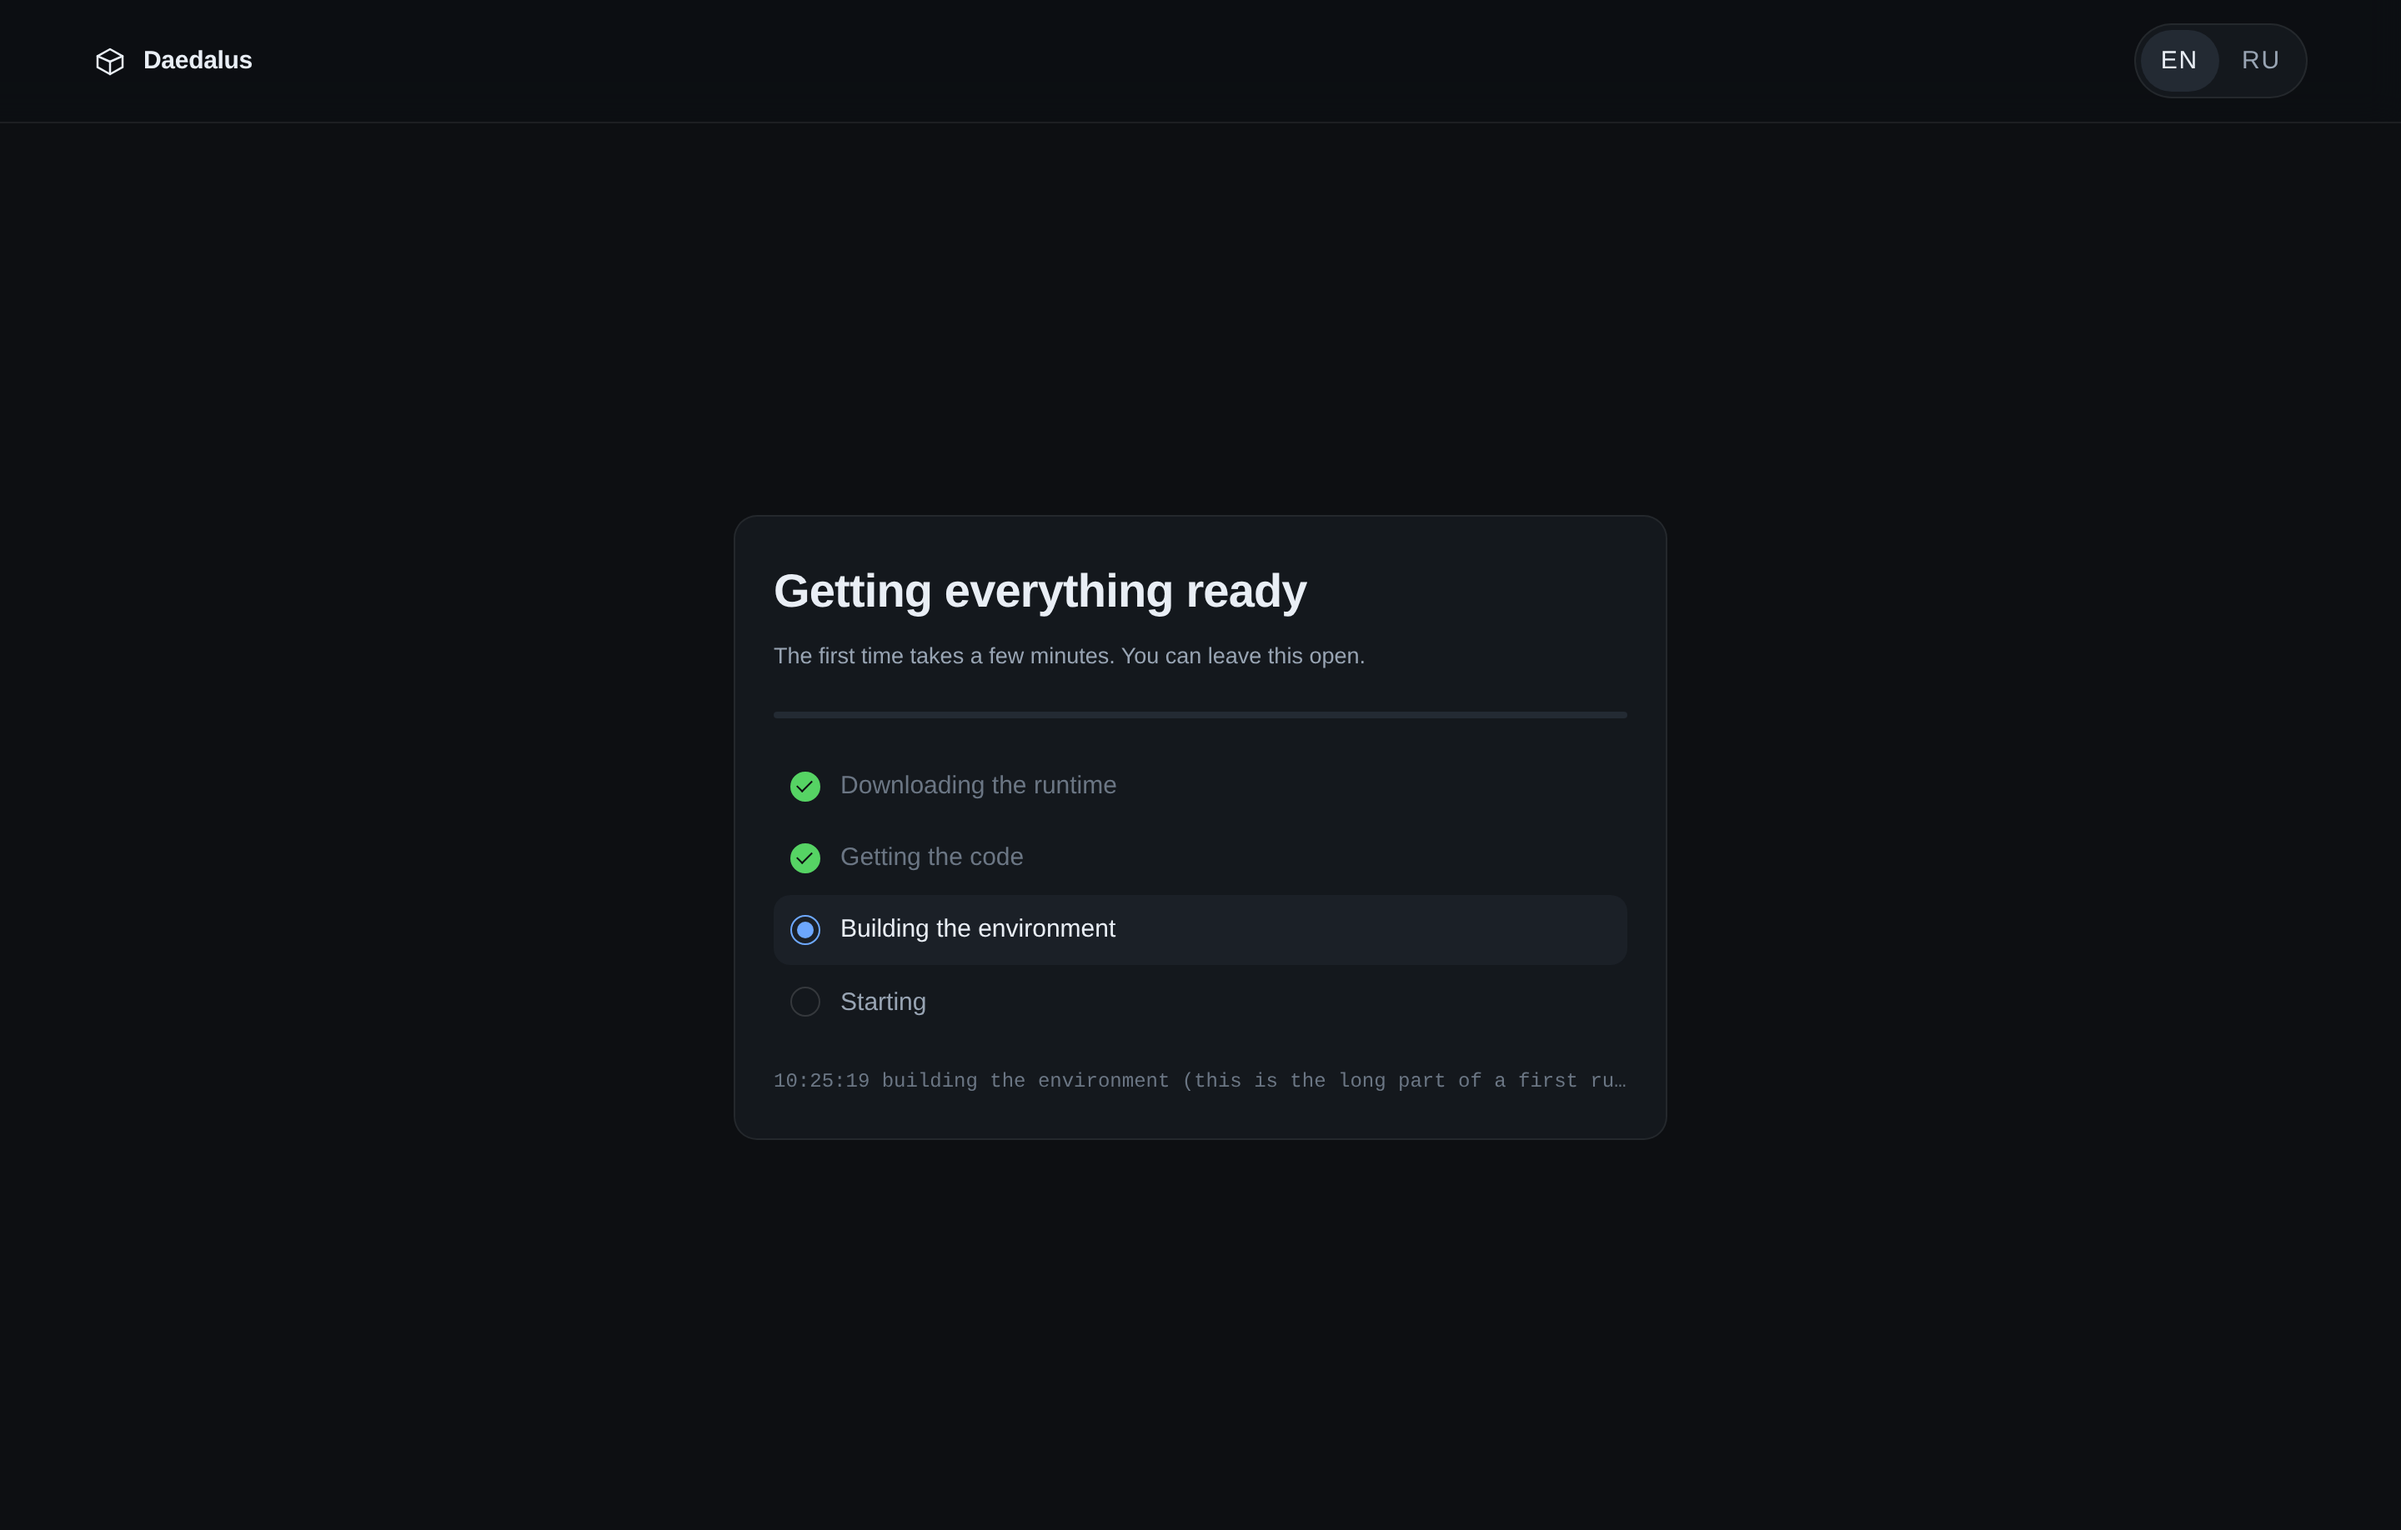
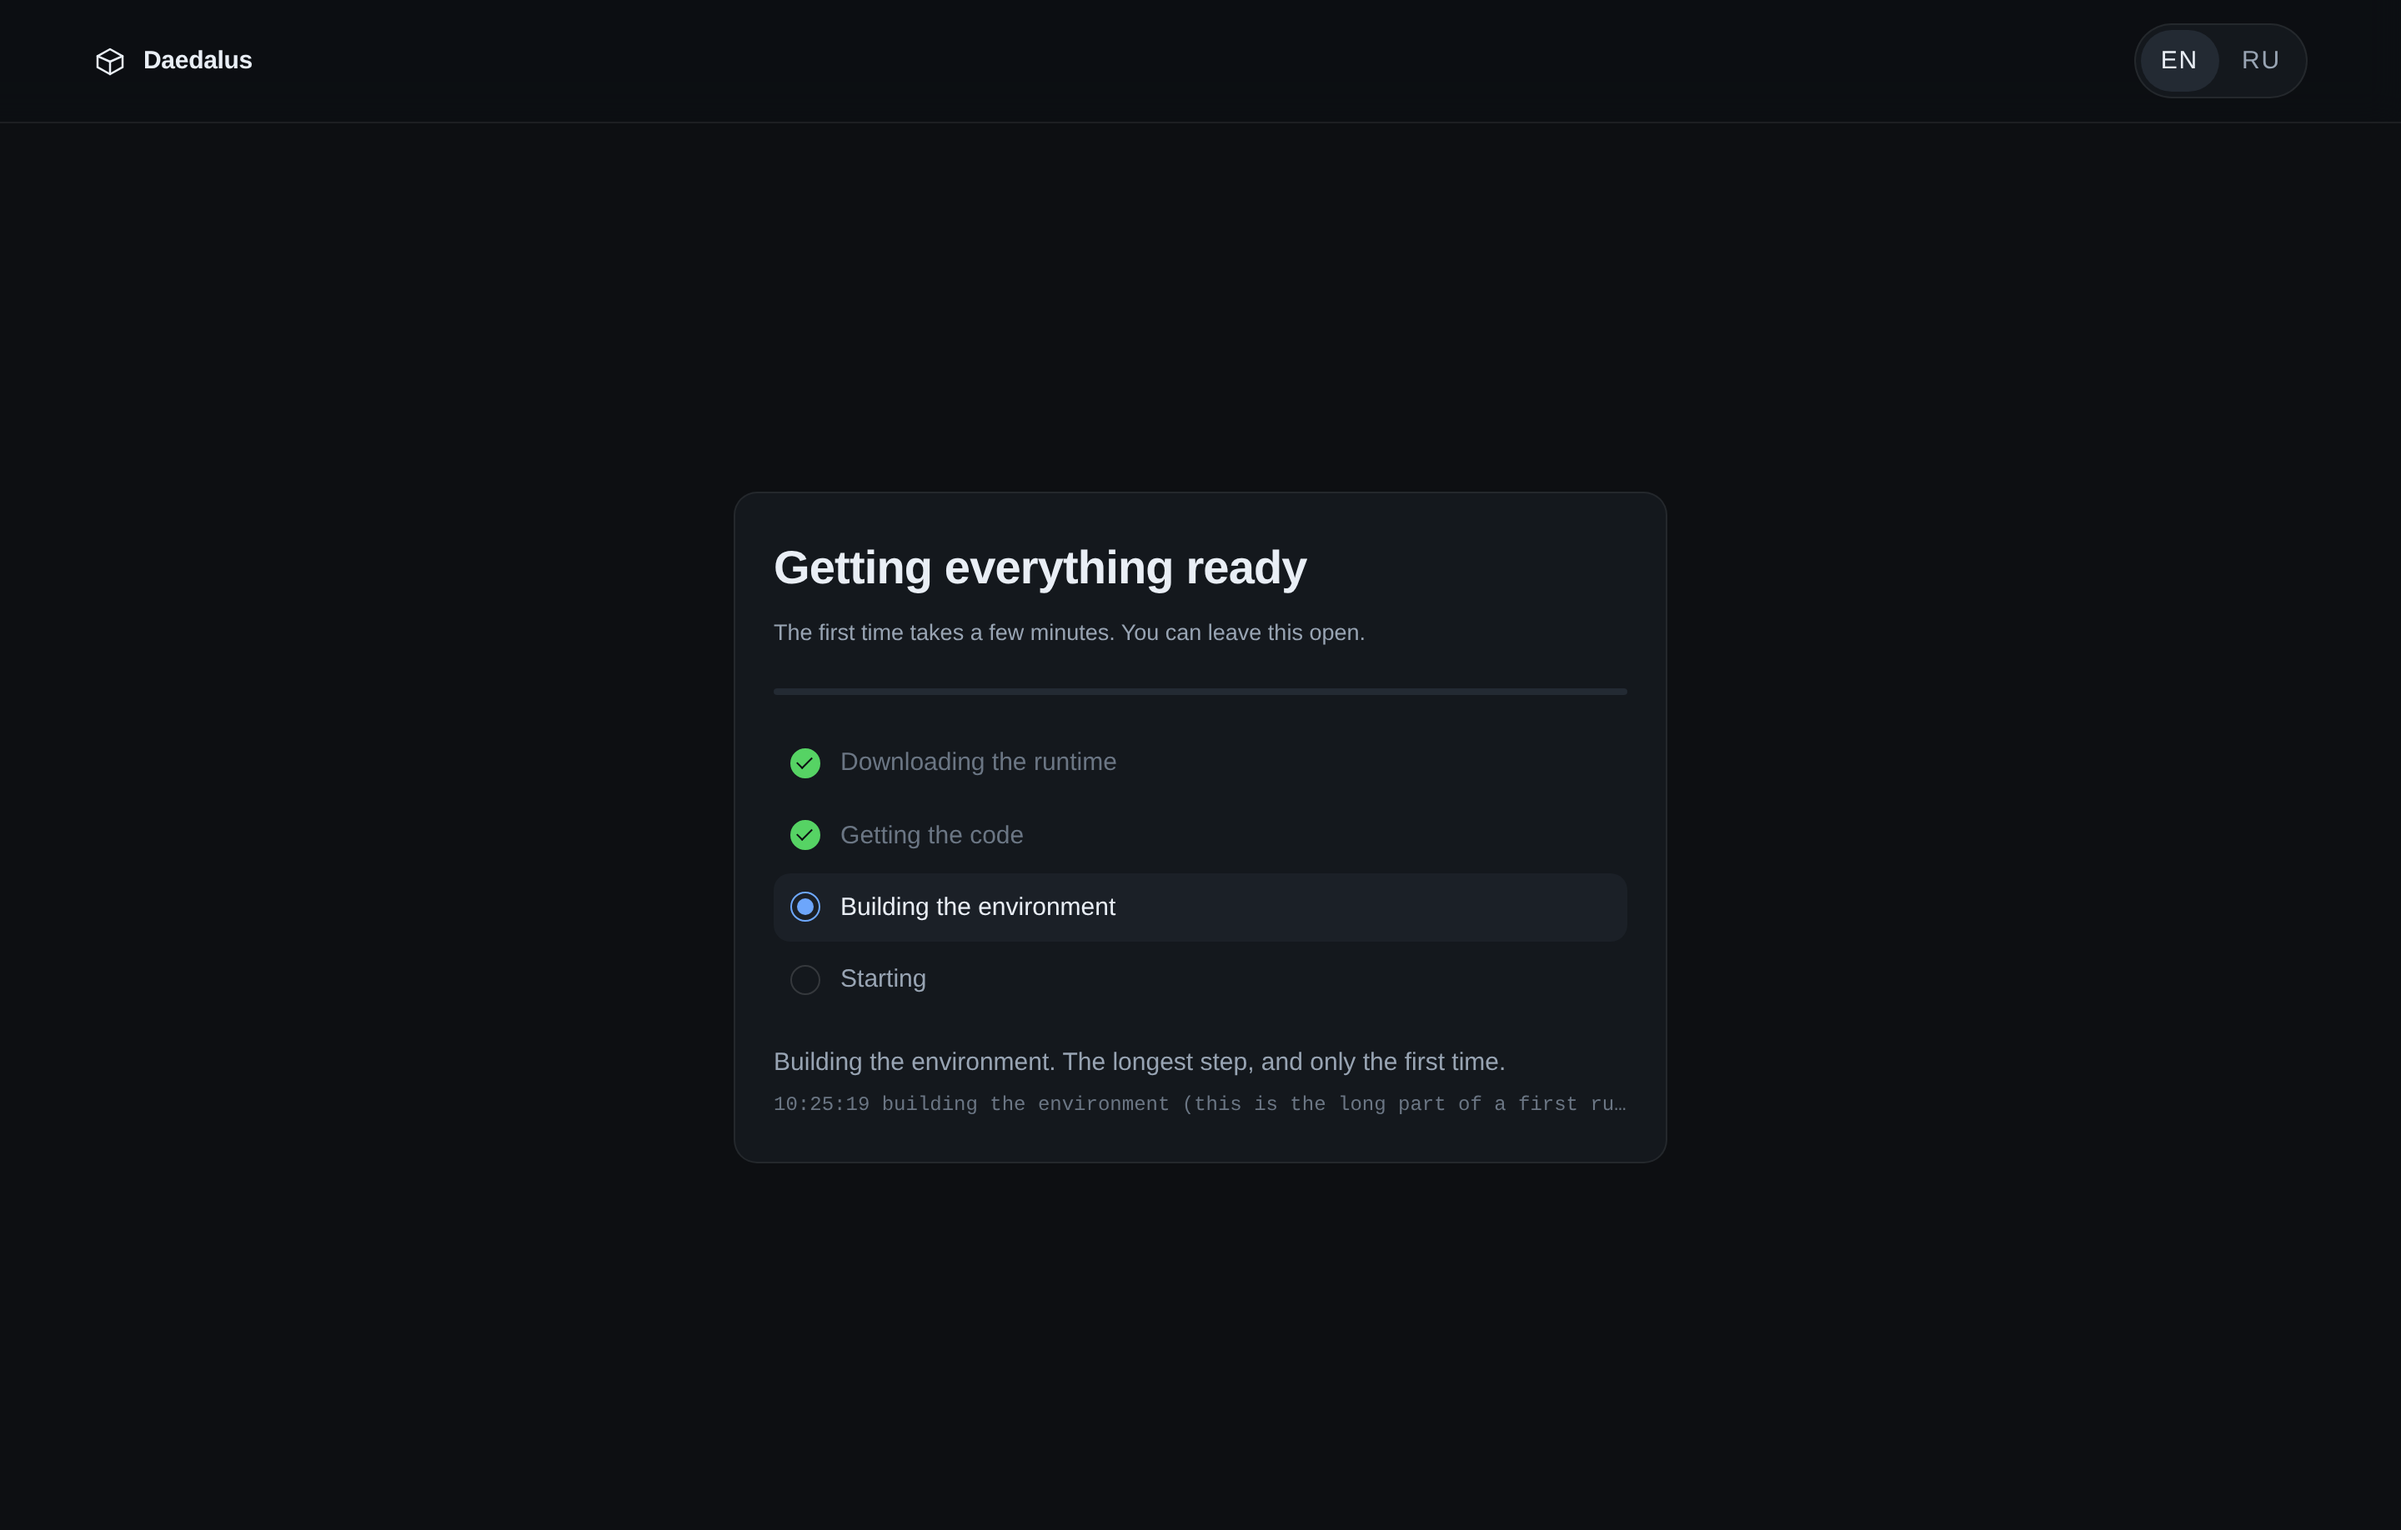
The waiting page says what is happening, in the language it is written in
Two lines where there was one: what the launcher is at, in the operator's
language, and under it the launcher's own commentary in the monospace it
deserves. The failure card shows the sentence for a failure the launcher
recognises and the program's own words for one it does not, with the original
text kept under "What happened" above the log. The card's one sentence reads at
the size of the page's text rather than at a footnote's, because on that card
it is the whole explanation.

The launcher's pictures are retaken.

Changed region(s): [[0.3125, 0.3415, 0.5625, 0.4346], [0.3125, 0.4967, 0.4688, 0.652], [0.3125, 0.683, 0.625, 0.7451]]

diff --git a/desktop/ui/assets/app.js b/desktop/ui/assets/app.js
@@ -131,12 +131,19 @@ function drawProgress(status) {
   el("working").hidden = failed;
   el("trouble").hidden = !failed;
   if (failed) {
-    el("what").textContent = status.docker_missing ? T("docker.missing") : status.failure;
-    el("trouble-log").textContent = (status.log || []).join("\n");
+    // What the launcher can name, it names — in the language of the page. What it cannot stays as
+    // the program said it, which is a visible gap rather than a silent one. Either way the original
+    // text is under "What happened", above the log.
+    const said = status.docker_missing ? T("docker.missing") : status.failure_key ? T(status.failure_key) : status.failure;
+    el("what").textContent = said;
+    el("trouble-log").textContent = [status.failure, ...(status.log || [])].filter(Boolean).join("\n");
     return;
   }
   el("idle").hidden = Boolean(status.busy) || ready;
-  el("live").textContent = ready ? T("progress.done") : (status.log || []).slice(-1)[0] || T("progress.working");
+  // Two lines: what is happening, in the operator's language, and under it the launcher's own
+  // commentary, which is machine output and looks like it.
+  el("live").textContent = ready ? T("progress.done") : status.stage ? T("live." + status.stage) : T("progress.working");
+  el("livelog").textContent = ready ? "" : (status.log || []).slice(-1)[0] || "";
   if (ready) setTimeout(() => (location.href = "/status"), 900);
 }
 

diff --git a/desktop/ui/assets/style.css b/desktop/ui/assets/style.css
@@ -281,10 +281,16 @@ button[disabled] { opacity: 0.45; cursor: default; transform: none; }
 /* The launcher's own commentary, which is the machine talking rather than the page: it is shown as
    such — one faint monospace line — and is the one thing here that is not translated, because it is
    the same words that go to the terminal and into the log. */
+/* What is happening, in the operator's words, with the launcher's own commentary under it. */
+.saying {
+  color: var(--muted);
+  margin-top: 18px;
+  min-height: 22px;
+}
 .live {
   color: var(--faint);
   font: 12px/1.6 ui-monospace, SFMono-Regular, Menlo, Consolas, monospace;
-  margin-top: 18px;
+  margin-top: 4px;
   min-height: 20px;
   overflow: hidden;
   text-overflow: ellipsis;
@@ -292,7 +298,9 @@ button[disabled] { opacity: 0.45; cursor: default; transform: none; }
 }
 .trouble { border-color: rgba(240, 180, 41, 0.4); }
 .trouble h2 { font-size: 17px; }
-.trouble .what { color: var(--muted); font-size: 13px; margin-top: 8px; }
+/* On this card the sentence is the explanation, not a caption under one: it reads at the size of
+   the page's own text rather than at a footnote's. */
+.trouble .what { color: var(--text); margin-top: 10px; }
 .trouble .detail { margin-top: 14px; }
 .trouble pre {
   background: var(--bg);

diff --git a/desktop/ui/progress.html b/desktop/ui/progress.html
@@ -19,7 +19,8 @@
       {{range .Steps}}<div class="row{{if .Done}} done{{end}}{{if .Now}} now{{end}}" data-stage="{{.Stage}}"><span class="dot"></span><span>{{.Label}}</span></div>
       {{end}}
     </div>
-    <p class="live" id="live"></p>
+    <p class="saying" id="live"></p>
+    <p class="live" id="livelog"></p>
     <div class="bar" id="idle" hidden>
       <button class="primary" data-action="start">{{.T "status.start"}}</button>
     </div>
